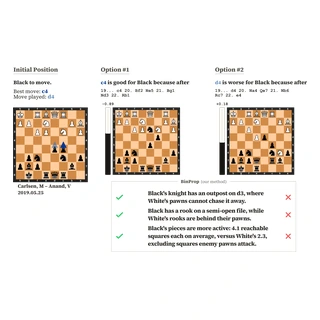
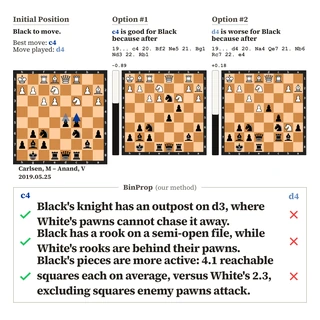
Fit chess Figure 1 to its publication tile

diff --git a/_pages/about.html b/_pages/about.html
@@ -78,7 +78,7 @@ function toggleBibtex(trigger) {
 
 <div class="publications">
   <div class="pub-entry" id="binprop">
-    {% include publication-thumbnail.html paper="binprop" version=4 alt="Figure 1 compares the initial chess position and two continuations alongside the explanations for each move" %}
+    {% include publication-thumbnail.html paper="binprop" version=8 alt="Figure 1 compares the initial chess position and two continuations alongside the explanations for each move" %}
     <div class="pub-content">
       <strong class="pub-title">Explaining Chess and Go in Natural Language</strong>
       <span class="pub-authors"><strong class="pub-author-self">Ori Press</strong>, Alexander Golubev</span>
